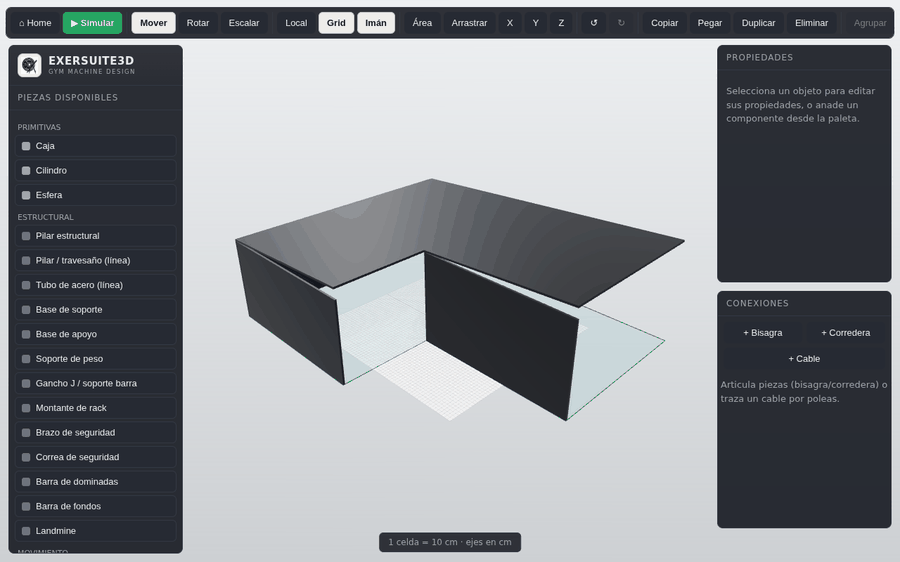
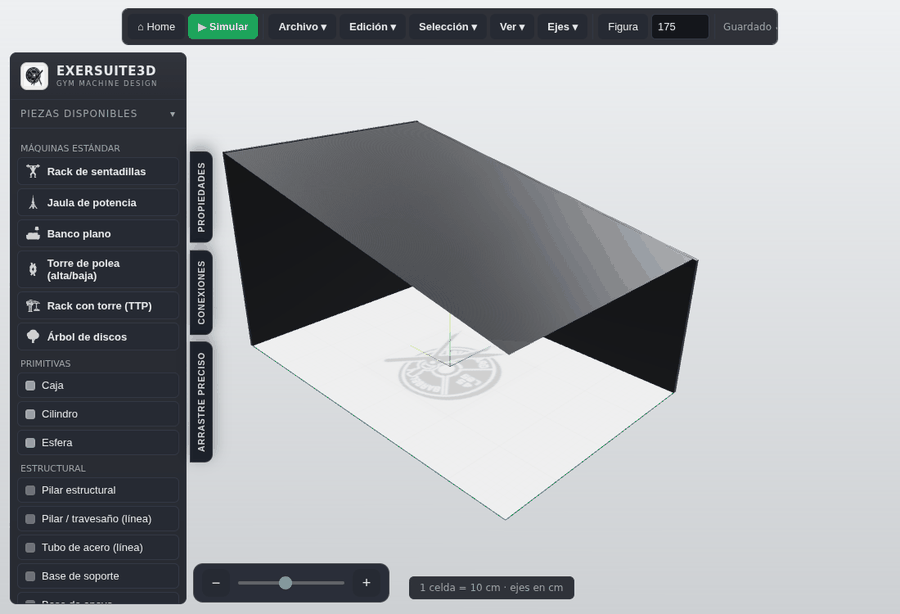
Techo como cara plana, cables en azul oscuro y FAQ al día
- El techo del canvas completo deja de ser un prisma con espesor: ahora es
  una única cara plana (ShapeGeometry) asentada exactamente sobre el plano
  de la techumbre, uniforme con las paredes que hacen contacto con ella.
- Los cables de poleas/roldanas se dibujan en AZUL OSCURO (0x1e3a8a) para
  destacar sobre el fondo claro del visor; el estado de error sigue rojo.
- FAQ: las pestañas de espacio y física describen las propiedades nuevas
  (techo-cara, paredes suelo-techo, altura sin techumbre, cable azul) y sus
  imágenes se re-escenifican: techo plano inclinado con paredes al ras,
  cable azul por una roldana, y validación azul-válido / rojo-error.
- Cápsula del tiempo: 3 capturas nuevas del 2026-07-25 + índice.

Claude-Session: https://claude.ai/code/session_014fW5t7kk9L1bzdCPk4pmbH

diff --git a/src/core/Editor.ts b/src/core/Editor.ts
@@ -1514,13 +1514,12 @@ export class Editor {
   private geometriaTecho(): THREE.BufferGeometry | null {
     const planta = this.wsPlanta();
     if (!planta) return null;
+    // El techo es una CARA PLANA (no un prisma): geometría simple y
+    // homogénea con las paredes — copia fiel de la planta, sin grosor.
     const shape = new THREE.Shape(planta.map(([x, z]) => new THREE.Vector2(x, -z)));
-    const geo = new THREE.ExtrudeGeometry(shape, {
-      depth: Editor.GROSOR_ENTORNO,
-      bevelEnabled: false,
-    });
-    geo.rotateX(-Math.PI / 2); // extrusión vertical: planta en XZ, grosor en +Y
-    geo.center(); // pivote en el centro del bloque (colocación e inclinación)
+    const geo = new THREE.ShapeGeometry(shape);
+    geo.rotateX(-Math.PI / 2); // la planta queda en el plano XZ
+    geo.center(); // pivote en el centro (colocación e inclinación)
     geo.computeVertexNormals();
     return geo;
   }
@@ -1569,9 +1568,11 @@ export class Editor {
       const L = (t.eje === "x" ? ws.ancho : ws.fondo) || 1;
       const ang = Math.atan2(dh, L);
       // La pendiente sube hacia el extremo B (+X o +Z según el eje elegido).
+      // La CARA del techo se posa exactamente en el plano alturaA→alturaB:
+      // el mismo plano de techoYAt, así las paredes lo tocan sin holgura.
       if (t.eje === "x") techo.mesh.rotation.z = ang;
       else techo.mesh.rotation.x = -ang;
-      techo.mesh.position.set(0, (t.alturaA + t.alturaB) / 2 + GROSOR / 2, 0);
+      techo.mesh.position.set(0, (t.alturaA + t.alturaB) / 2, 0);
     }
 
     // Paredes: una por cada borde de la planta cuya orientación exterior
@@ -3457,9 +3458,11 @@ export class Editor {
       if (pts.length < 2) continue;
       let line = existing.get(cable.id);
       if (!line) {
+        // AZUL OSCURO: el cable destaca contra el fondo claro del visor y
+        // se distingue de las piezas, vértices y nodos.
         line = new THREE.Line(
           new THREE.BufferGeometry(),
-          new THREE.LineBasicMaterial({ color: 0xd8dee9 }),
+          new THREE.LineBasicMaterial({ color: 0x1e3a8a }),
         );
         line.userData.cableId = cable.id;
         this.cableVisuals.add(line);
@@ -3468,7 +3471,7 @@ export class Editor {
       // Validación del diagrama Cables/Poleas: rojo si el trazado atraviesa
       // material sólido o entra desalineado al plano de una roldana.
       const valido = this.validarCable(cable, pts);
-      (line.material as THREE.LineBasicMaterial).color.setHex(valido ? 0xd8dee9 : 0xef4444);
+      (line.material as THREE.LineBasicMaterial).color.setHex(valido ? 0x1e3a8a : 0xef4444);
       const invalidoAntes = this.cablesInvalidos.has(cable.id);
       if (!valido && !invalidoAntes) {
         this.cablesInvalidos.add(cable.id);

diff --git a/src/ui/Instructivo.ts b/src/ui/Instructivo.ts
@@ -34,7 +34,9 @@ const FAQ: { id: string; pregunta: string; puntos: string[] }[] = [
     id: "espacio",
     pregunta: "¿Cómo funciona el canvas Completo (planta, techo y paredes)?",
     puntos: [
-      "En el canvas Completo la techumbre es una capa oscura copia fiel del suelo con sus alturas A/B y pendiente; las paredes N/S/E/O siguen el contorno y sirven de anclaje.",
+      "En el canvas Completo la techumbre es una CARA PLANA oscura, copia fiel del suelo, con sus alturas A/B y su pendiente.",
+      "Las paredes N/S/E/O son caras que van del suelo al techo SIN dejar huecos: bajo una techumbre inclinada su borde superior sigue la pendiente (trapezoidales).",
+      "Sin techumbre también puede haber paredes: suben hasta la altura que definas en el asistente (campo Altura de las paredes).",
       "Lo que sobresale del espacio se marca en rojo y su colocación se cancela.",
     ],
   },
@@ -70,7 +72,7 @@ const FAQ: { id: string; pregunta: string; puntos: string[] }[] = [
       "En Propiedades: material, masa (kg) y Anclado (las piezas ancladas o sin masa no caen).",
       "+ Bisagra y + Corredera articulan dos piezas (toca una y luego la otra).",
       "Roldana (paleta): elige configuración interna (embutida en el pilar, la rueda asoma por la apertura) o externa (fuera de la cara) y tócala sobre la pieza — así defines ANTES los puntos de deslizamiento del cable.",
-      "Terminal de cable (paleta): coloca ojales de anclaje sobre cualquier cara; el cable en ERROR se pinta en rojo si atraviesa material o entra torcido a una roldana.",
+      "Terminal de cable (paleta): coloca ojales de anclaje sobre cualquier cara; el cable VÁLIDO se dibuja en azul oscuro (destaca sobre el fondo claro) y el cable en ERROR se pinta en rojo si atraviesa material o entra torcido a una roldana.",
       "Lock switch en cada bisagra/corredera (Conexiones): bloqueada queda rígida en su pose — transforma una máquina de empuje horizontal en vertical con un clic.",
       "+ Cable traza un cable inextensible punto a punto: ancla A → roldanas de paso → ancla B (Finalizar cable). Las poleas dan ventaja mecánica real (2:1…).",
     ],

diff --git a/CHANGELOG.md b/CHANGELOG.md
@@ -7,8 +7,20 @@ y el proyecto usa [Versionado Semántico](https://semver.org/lang/es/).
 
 ## [0.2.8] — 2026-07-25
 
-Las paredes del área de trabajo se vuelven CARAS reales del suelo al techo
-y el Instructivo ilustrado queda con imágenes fieles a cada pestaña.
+Las paredes del área de trabajo se vuelven CARAS reales del suelo al techo,
+el techo pasa a ser una cara plana, los cables se ven en azul oscuro y el
+Instructivo ilustrado queda con imágenes fieles a cada pestaña.
+
+### Cambiado
+
+- **Techo como CARA PLANA**: la techumbre del canvas completo deja de ser
+  un prisma con espesor y pasa a ser una única cara plana (con su
+  pendiente A/B) — geometría más simple y uniforme con las paredes, que
+  hacen contacto exacto con ella.
+- **Cables en AZUL OSCURO**: los cables de los sistemas de poleas y
+  roldanas se dibujan en azul oscuro para destacar sobre el fondo claro
+  del visor (antes, gris claro casi invisible); el estado de ERROR sigue
+  siendo rojo.
 
 ### Corregido
 
@@ -29,7 +41,10 @@ y el Instructivo ilustrado queda con imágenes fieles a cada pestaña.
   limpias y encuadradas: ganchos calzados de cerca (montante y poste
   trazado), bloque y pila ensartados en sus guías, discos montados en
   carrier/barra/cuerno, validación de cables y simulación con el bloque en
-  sus topes.
+  sus topes. En esta ronda se re-escenifican además espacio (techo plano
+  inclinado con paredes al ras) y física (cable azul por roldana y cable
+  en error), y los textos de esas pestañas describen las propiedades
+  nuevas.
 
 ## [0.2.7] — 2026-07-24
 

diff --git a/docs/capsula-del-tiempo/README.md b/docs/capsula-del-tiempo/README.md
@@ -301,9 +301,9 @@ v0.2.6: márgenes del asistente, bloques/pila de pesos guiados por tubos con ori
 - [`z2-3-sim-inicio.png`](2026-07-24/z2-3-sim-inicio.png)
 - [`z2-4-sim-final.png`](2026-07-24/z2-4-sim-final.png)
 
-## 2026-07-25 — 11 capturas
+## 2026-07-25 — 14 capturas
 
-v0.2.8: paredes del canvas completo como caras suelo-techo (trapezoidales bajo techumbre inclinada, altura de usuario sin techo) y re-escenificación de las imágenes del FAQ (calce, pesos, discos montados).
+v0.2.8: paredes del canvas completo como caras suelo-techo (trapezoidales bajo techumbre inclinada, altura de usuario sin techo), techo como CARA PLANA sin espesor, cables de poleas en azul oscuro y re-escenificación de las imágenes del FAQ (calce, pesos, discos montados, espacio y física).
 
 - [`faq-1-calce.png`](2026-07-25/faq-1-calce.png)
 - [`faq-2-pesos.png`](2026-07-25/faq-2-pesos.png)
@@ -316,4 +316,6 @@ v0.2.8: paredes del canvas completo como caras suelo-techo (trapezoidales bajo t
 - [`w-2-paredes-sin-techo.png`](2026-07-25/w-2-paredes-sin-techo.png)
 - [`w-3-trapecio.png`](2026-07-25/w-3-trapecio.png)
 - [`w-4-sin-techo.png`](2026-07-25/w-4-sin-techo.png)
-
+- [`v28-espacio-1.png`](2026-07-25/v28-espacio-1.png)
+- [`v28-fisica-1.png`](2026-07-25/v28-fisica-1.png)
+- [`v28-fisica-2.png`](2026-07-25/v28-fisica-2.png)
